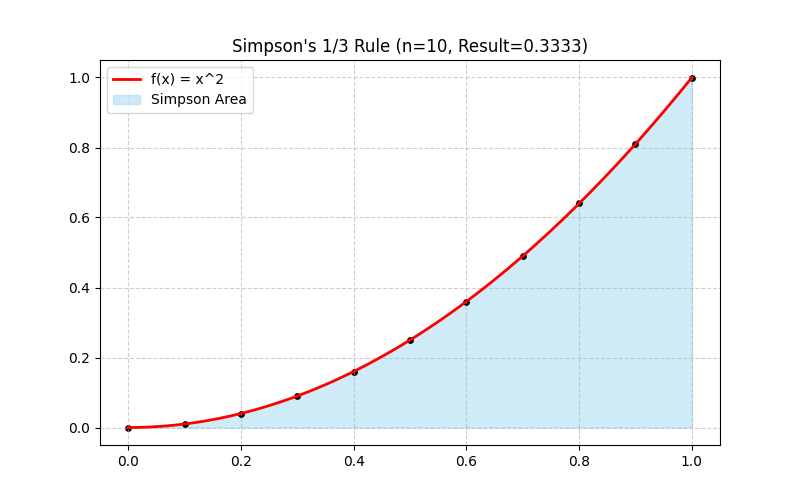
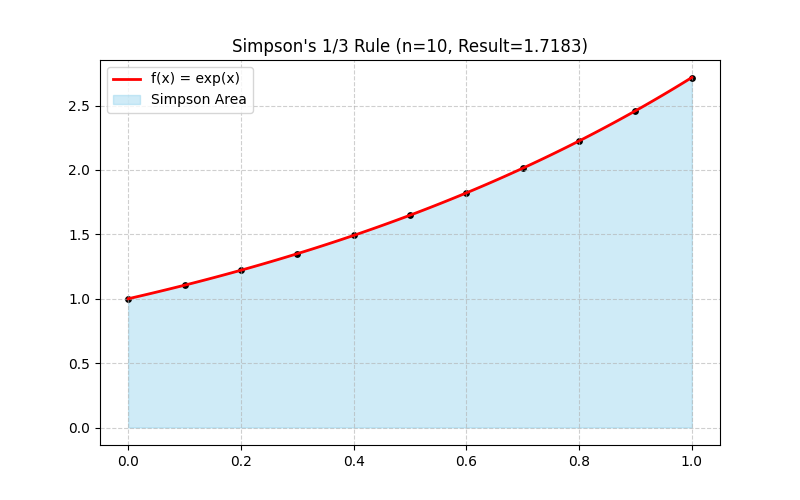
first version of bisection

diff --git a/Unit3_Integration/Simpson.py b/Unit3_Integration/Simpson.py
@@ -1,15 +1,17 @@
 import numpy as np
 import matplotlib.pyplot as plt
 import os
+import math
+
 
 # إنشاء المجلد إذا لم يكن موجوداً لضمان عدم حدوث خطأ
 folder = 'Unit3_Integration'
 if not os.path.exists(folder):
     os.makedirs(folder)
 
-# 1. تعريف الدالة المراد تكاملها (مثلاً f(x) = x^2)
+# 1. تعريف الدالة المراد تكاملها (مثلاً f(x) = exp(x)
 def f(x):
-    return x**2
+    return np.exp(x)
 
 def simpson_full_project(a, b, n):
     # سيمبسون يتطلب n زوجي
@@ -30,7 +32,7 @@ def simpson_full_project(a, b, n):
     y_curve = f(x_curve)
     
     plt.figure(figsize=(8, 5))
-    plt.plot(x_curve, y_curve, 'r', label='f(x) = x^2', linewidth=2)
+    plt.plot(x_curve, y_curve, 'r', label='f(x) = exp(x)', linewidth=2)
     
     # تظليل المساحة (تقريب سيمبسون)
     plt.fill_between(x, y, color='skyblue', alpha=0.4, label='Simpson Area')

diff --git a/Unit1_Roots/Dichotomie.py b/Unit1_Roots/Dichotomie.py
@@ -26,6 +26,9 @@ def bisection_method(a, b, tol, max_iter):
             b = c
         else:
             a = c
+            
+            # التعديل هنا: إذا خرجنا من الحلقة بلا ما يتحقق شرط error < tol
+    print("\nتنبيه: تم الوصول للحد الأقصى من الدورات دون تحقيق الدقة المطلوبة.")
     return c
 
 # تشغيل الطريقة
